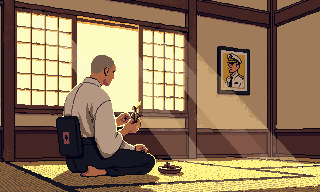
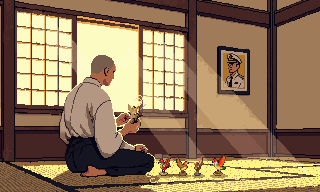
凍った湖: 湖畔から道へ戻れるように、思い出の絵を何度でも見られるように / 廃兵院: 夫婦・木彫り・結婚写真の絵を直す
- 湖畔の左端の戻り口が足もとの幅より狭く届かなかったので広げる
- ちゃんの車・座布団の思い出を何度でも(はじめての時に条件を満たす)
- 夫婦の部屋: 逆光の障子の前の若い夫婦の後ろ姿、卓袱台に子どもの写真、隅に三輪車(手描き)
- 木彫り: 背中の四角を消し、白木の鷹を削る手元と、並んだおたかぽっぽ
- 結婚写真: 正装の軍人に正帽

Claude-Session: https://claude.ai/code/session_01CdRwgmiiRbABwrAE7HmzdN

diff --git a/field/worlds.js b/field/worlds.js
@@ -290,14 +290,14 @@
       west: { x: 0.9 * T, y: 18 * T, facing: "east" },
       door: { x: 9.3 * T, y: 17 * T, facing: "south" },
     },
-    triggers: [{ id: "toRoad", x: -T, y: 16.5 * T, w: 1.3 * T, h: 3 * T, warp: { map: "road", spawn: "pass" } }],
+    // 左の端から、ワインディングロードへ戻る
+    triggers: [{ id: "toRoad", x: -T, y: 16.5 * T, w: 1.6 * T, h: 3 * T, warp: { map: "road", spawn: "pass" } }],
     objects: [
       at("car", 2.6 * T, 16.7 * T, {
         id: "car",
         range: 44,
         interact(api) {
           api.mutter("ちゃん");
-          if (api.flag("memory")) return;
           api.later(1300, () => api.show("v_window", () => api.setFlag("memory")));
         },
       }),
@@ -407,13 +407,11 @@
             return;
           }
           api.mutter("ちゃん");
-          if (api.flag("ate")) return;
+          // 何度でも見られる。はじめて見たときに断片の条件を満たす
           api.later(1300, () =>
             api.show("v_table", () => {
               api.setFlag("ate");
-              api.later(500, () =>
-                api.show("v_road", () => api.clear())
-              );
+              api.later(500, () => api.show("v_road", () => api.clear()));
             })
           );
         },

diff --git a/field/index.html b/field/index.html
@@ -8,7 +8,7 @@
   <meta name="apple-mobile-web-app-status-bar-style" content="black-translucent">
   <meta name="mobile-web-app-capable" content="yes">
   <title>ぼぎだぢ - 懲罰空間</title>
-  <link rel="stylesheet" href="./style.css?v=31">
+  <link rel="stylesheet" href="./style.css?v=33">
 </head>
 <body>
   <header class="field-header">
@@ -53,8 +53,8 @@
     <small>© Character Project</small>
   </footer>
 
-  <script src="./rpg.js?v=31"></script>
-  <script src="./worlds.js?v=31"></script>
-  <script src="./script.js?v=31"></script>
+  <script src="./rpg.js?v=33"></script>
+  <script src="./worlds.js?v=33"></script>
+  <script src="./script.js?v=33"></script>
 </body>
 </html>
